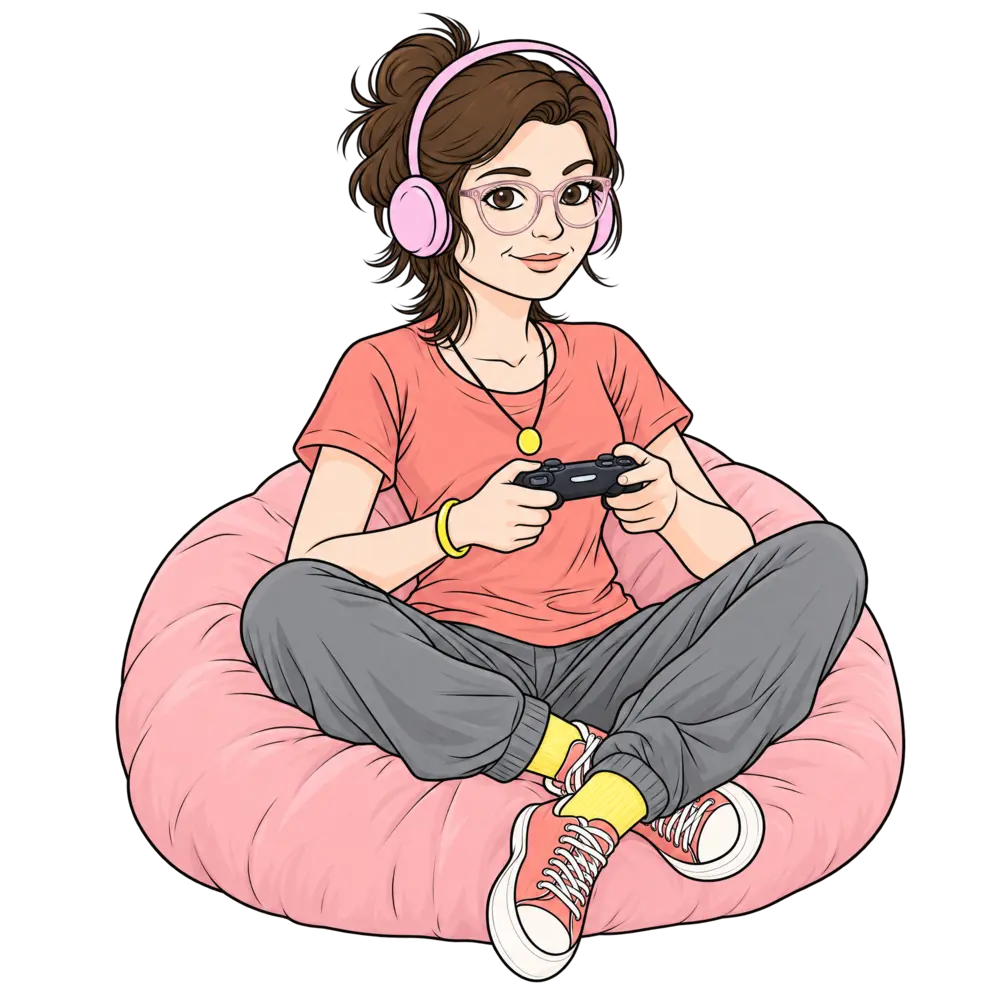
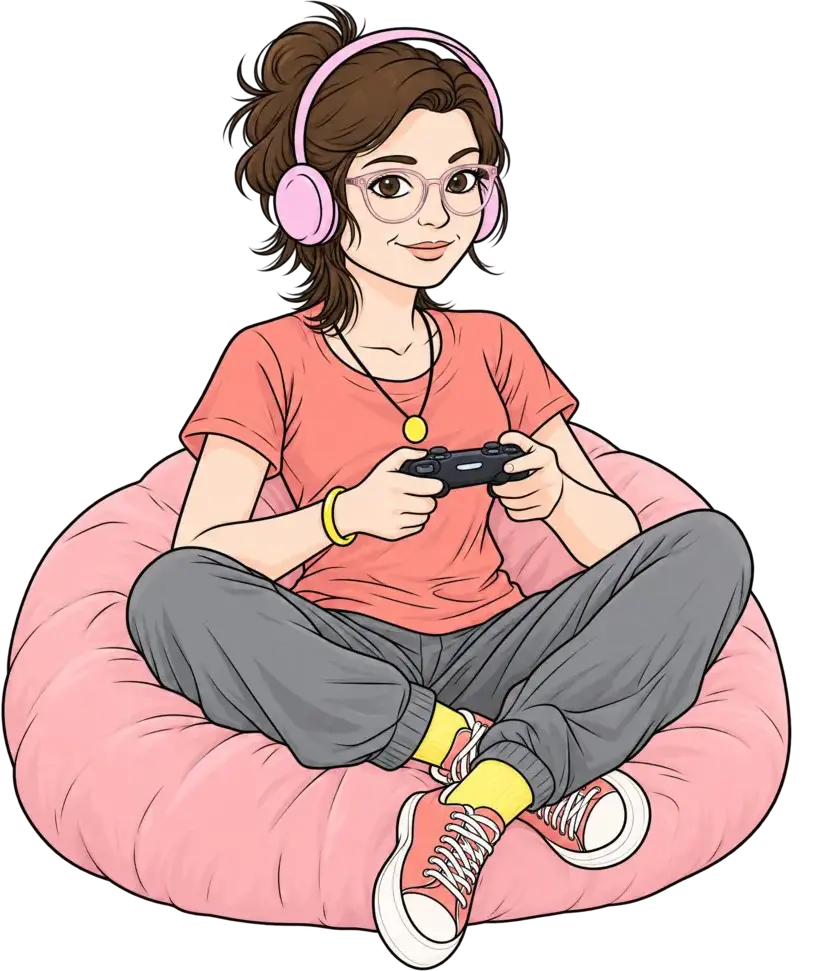
Characters stand on the floor disc
Trim each pose to its drawn content (the PNGs had 8-46px of uneven
transparent padding below the feet) and anchor every image's bottom
edge to the disc's centre line. The disc now spans the full stage, so
feet, chair wheels and desk legs all rest on it in all six poses.

diff --git a/css/redesign.css b/css/redesign.css
@@ -527,3 +527,10 @@ body.is-home .site-footer { display: none; }
 .arcade-legal { position: static !important; margin: 1.6rem 0 0 !important; font-size: 0.85rem; line-height: 1.5; opacity: 0.85; text-align: left; }
 .arcade-legal p { margin: 0; }
 @media (max-width: 62rem) { .arcade-legal { text-align: center !important; } }
+
+/* character stands on the disc: images are trimmed to content, and the
+   bottom of every pose (feet, chair wheels, desk legs) meets the disc's centre line */
+.char-cycle { aspect-ratio: 4 / 5; }
+.char-slide { inset: 0 0 8% 0 !important; align-items: flex-end !important; }
+.char-slide img { max-width: 92%; max-height: 100%; }
+.char-platform { width: 100% !important; height: 15% !important; bottom: 0.5% !important; }
